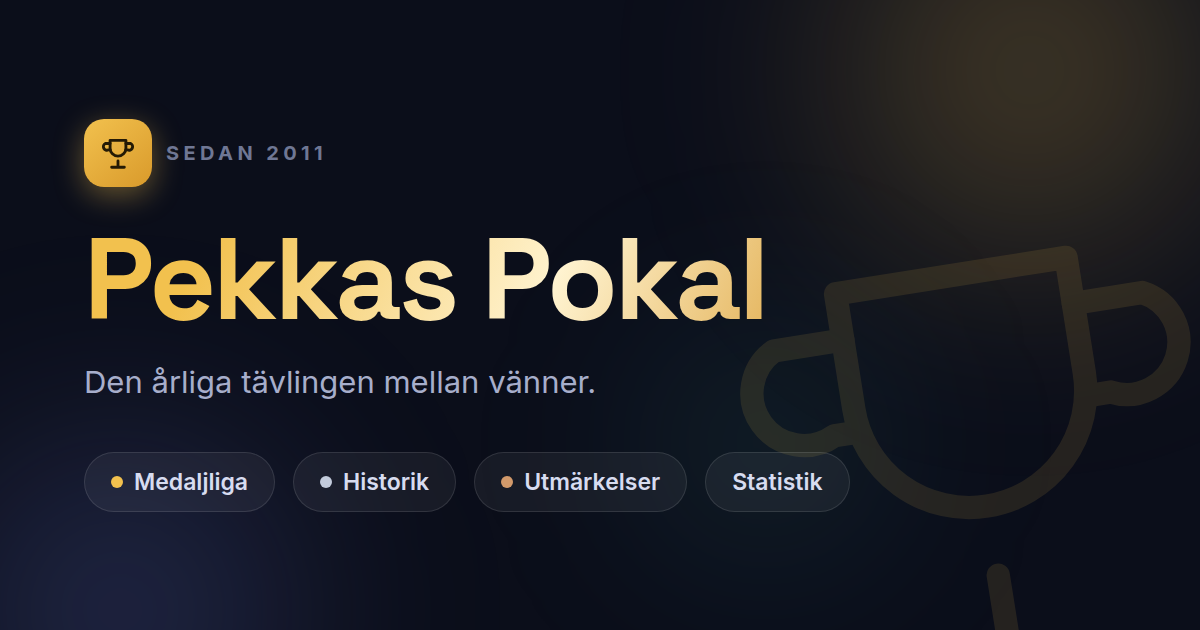
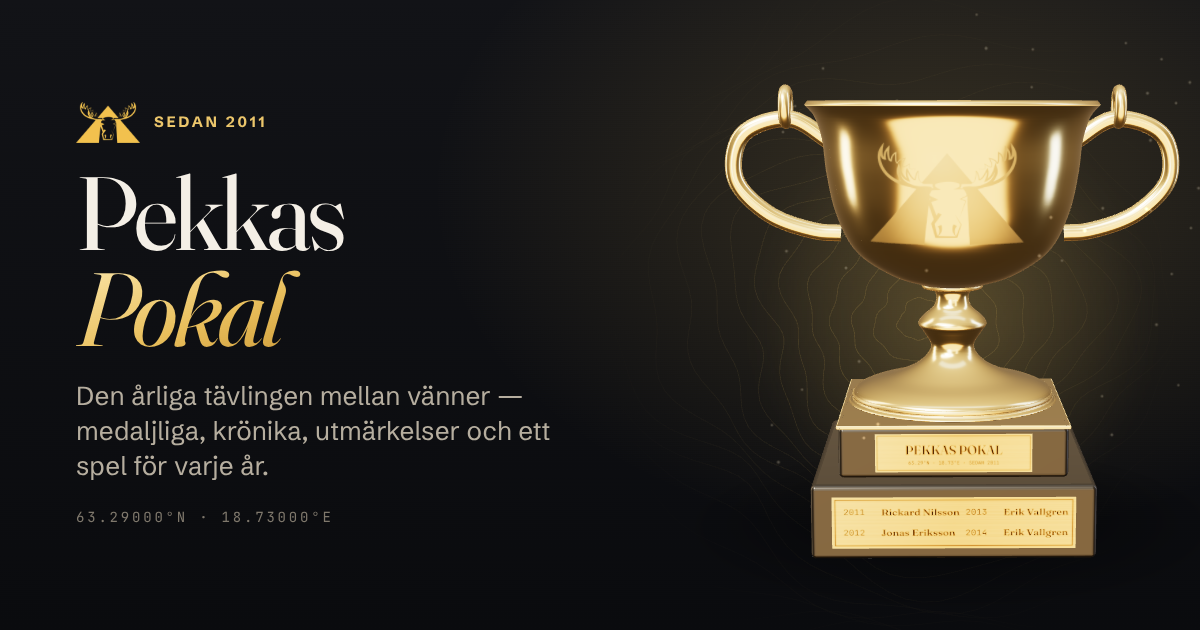
Pokalen: guld som glöder, stabil intro och ny delningsbild
- Studion får en bred varm svep bakom kameran och ett studsljus från
  golvet: kupans nedåtvända underdel speglade förut det svarta golvet och
  såg bränd ut. Lacken speglar mindre, plåtarnas gravyr är mörkare.
- Introt kunde skena iväg: rAF-tidsstämpeln är bildrutans starttid och
  kan ligga före timer.reset() när shaderkompileringen blockerat tråden,
  vilket gav ett negativt delta på flera sekunder. Timern läser nu
  performance.now() och deltat klampas till [0, 50 ms].
- og-image.png är omritad med den nya formen och pokalen i 3D.

Claude-Session: https://claude.ai/code/session_01SGBiUTc6wFrjjH4jnYsoRT

diff --git a/src/scripts/trophy.js b/src/scripts/trophy.js
@@ -33,7 +33,7 @@ function buildStudioEnvironment(renderer) {
   const pos = domeGeo.attributes.position;
   const top = new THREE.Color(0.85, 0.66, 0.42);
   const mid = new THREE.Color(0.16, 0.12, 0.08);
-  const bottom = new THREE.Color(0.01, 0.01, 0.012);
+  const bottom = new THREE.Color(0.06, 0.045, 0.03);
   const c = new THREE.Color();
   for (let i = 0; i < pos.count; i++) {
     const y = pos.getY(i) / 20;
@@ -60,6 +60,8 @@ function buildStudioEnvironment(renderer) {
   box(1.4, 12, 7, 0xffe6c4, [-9, 3, -3]); // kantljus vänster
   box(1.4, 12, 6, 0xdfe8ff, [9, 3, -2]); // kallt kantljus höger
   box(6, 1.2, 3.5, 0xffd9a0, [3, 0.5, 9]); // låg varm fyllnad framifrån
+  box(12, 5, 1.5, 0xffdcaa, [0, 2.2, 12]); // bred varm svep bakom kameran — bålen glöder i stället för att svartna
+  box(16, 9, 2.2, 0xffcf8f, [0, -4, 7]); // studsljus från golvet — kupans nedåtvända underdel speglar det
   box(14, 3, 1.4, 0xffffff, [0, 14, 0], [0, 0, 0]); // takets breda sken
 
   const pmrem = new THREE.PMREMGenerator(renderer);
@@ -161,7 +163,7 @@ function plateTexture(lines, { width = 1024, height = 256, title = false } = {})
   ctx.strokeStyle = 'rgba(70, 48, 12, 0.55)';
   ctx.lineWidth = 6;
   ctx.strokeRect(14, 14, width - 28, height - 28);
-  ctx.fillStyle = 'rgba(52, 34, 6, 0.92)';
+  ctx.fillStyle = 'rgb(40, 25, 4)';
   ctx.textAlign = 'center';
   ctx.textBaseline = 'middle';
   if (title) {
@@ -179,7 +181,7 @@ function plateTexture(lines, { width = 1024, height = 256, title = false } = {})
       ctx.font = `400 ${Math.round(height * 0.15)}px "JetBrains Mono", monospace`;
       ctx.textAlign = 'left';
       ctx.fillText(line.year, col * colW + 48, y);
-      ctx.font = `500 ${Math.round(height * 0.17)}px Fraunces, Georgia, serif`;
+      ctx.font = `600 ${Math.round(height * 0.17)}px Fraunces, Georgia, serif`;
       ctx.fillText(line.name, col * colW + 48 + height * 0.62, y);
     });
   }
@@ -267,7 +269,8 @@ export async function mountTrophy(canvas, opts = {}) {
       metalness: 0,
       roughness: 0.35,
       clearcoat: 1,
-      clearcoatRoughness: 0.12
+      clearcoatRoughness: 0.12,
+      envMapIntensity: 0.45 // svart lack ska förbli svart, inte spegla studion grå
     })
   );
 
@@ -329,7 +332,7 @@ export async function mountTrophy(canvas, opts = {}) {
     const chunk = sorted.slice(side * perSide, side * perSide + perSide);
     if (!chunk.length) continue;
     const tex = track(plateTexture(chunk));
-    const mat = track(new THREE.MeshPhysicalMaterial({ color: GOLD_F0, map: tex, metalness: 1, roughness: 0.32 }));
+    const mat = track(new THREE.MeshPhysicalMaterial({ color: GOLD_F0.clone().multiplyScalar(0.82), map: tex, metalness: 1, roughness: 0.4 }));
     const plate = new THREE.Mesh(plateGeo, mat);
     const a = (side * Math.PI) / 2;
     plate.position.set(Math.sin(a) * 1.356, 0.36, Math.cos(a) * 1.356);
@@ -339,7 +342,7 @@ export async function mountTrophy(canvas, opts = {}) {
   const titleTex = track(plateTexture(['PEKKAS POKAL', '63.29°N · 18.73°E · SEDAN 2011'], { width: 1024, height: 256, title: true }));
   const titlePlate = new THREE.Mesh(
     track(new THREE.PlaneGeometry(1.5, 0.375)),
-    track(new THREE.MeshPhysicalMaterial({ color: GOLD_F0, map: titleTex, metalness: 1, roughness: 0.28 }))
+    track(new THREE.MeshPhysicalMaterial({ color: GOLD_F0.clone().multiplyScalar(0.85), map: titleTex, metalness: 1, roughness: 0.36 }))
   );
   titlePlate.position.set(0, 0.97, 1.106);
   trophy.add(titlePlate);
@@ -471,10 +474,13 @@ export async function mountTrophy(canvas, opts = {}) {
     renderer.render(scene, camera);
   }
 
-  function tick(ts) {
+  function tick() {
     raf = requestAnimationFrame(tick);
-    timer.update(ts);
-    const dt = Math.min(timer.getDelta(), 0.05);
+    // Ingen rAF-tidsstämpel: den är bildrutans starttid och kan ligga före
+    // timer.reset() när shaderkompileringen blockerat tråden — då blir
+    // deltat negativt. performance.now() är samma klocka som reset() läser.
+    timer.update();
+    const dt = Math.min(Math.max(timer.getDelta(), 0), 0.05);
     const t = timer.getElapsed();
 
     // Intro: pokalen svänger in och reser sig
